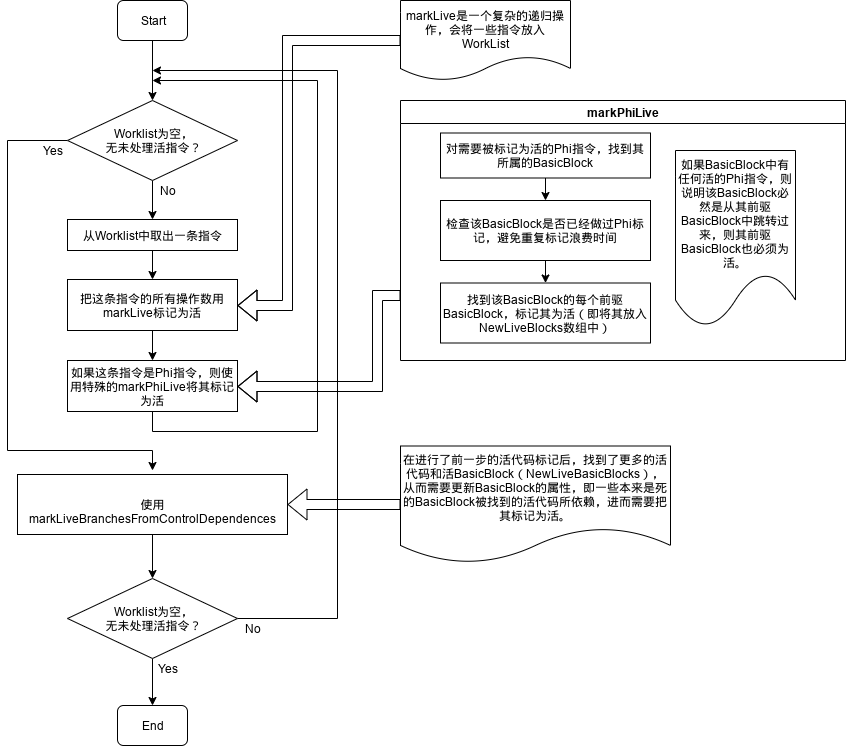
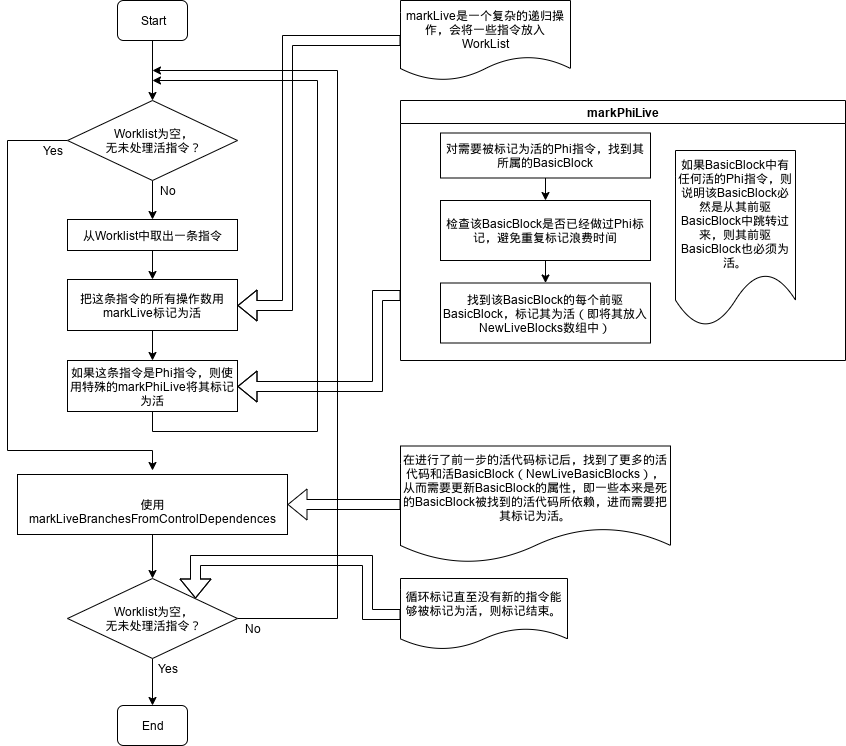
Added markLive ananlyse

Changed region(s): [[0.461, 0.7708, 0.6761, 0.8324], [0.3995, 0.7399, 0.4303, 0.7708], [0.2151, 0.7708, 0.2459, 0.8016]]

diff --git a/lab3-2/working/test1.c b/lab3-2/working/test1.c
@@ -1,0 +1,26 @@
+/* code optim test 1 */
+void xx(void) {
+	int x;
+	x = 1;
+	return;
+}
+int main(void) {
+	int a;
+	int b;
+	int c;
+	int d;
+	b = 2;
+	b = 1;
+	a = b + 1;
+	c = b + 3;
+	a = c + b;
+	if(a) {
+		return a;
+	}
+	else {
+		return b;
+	}
+	return 0;
+	return 1;
+	return 0;
+}

diff --git a/lab3-2/working/test2.c b/lab3-2/working/test2.c
@@ -1,0 +1,11 @@
+int main(void) {
+	int a;
+	int b;
+	int c;
+	a = 1 + (2 * 500 + 600);
+	b = 1 + (2 * 500 + 600);
+	1 + 2;
+	1 + 2;
+	1 + 2;
+	return 0;
+}

diff --git a/lab3-2/report/report.md b/lab3-2/report/report.md
@@ -130,15 +130,17 @@ removeDeadInstructions，进行代码分析后的删除工作
 
 **重要函数细节**
 
+整个流程中一个重要的函数是markLive，其有两个，分别用于标记Instruction和BasicBlock。流程如下：
 
+![](./src/adce_markLive.png)
 
 ## 实验总结
 
-本次实验我们体会了阅读大项目源代码，遇到了一些困难，也有很大的收获。
+本次实验我们体会了阅读大项目源代码，遇到了一些困难，也获得了很大的收获和经验。
 
 我们发现源码中使用了各种各样的C++特性和方便的自定义的数据结构，整体代码风格非常好，我们感到自己的C++水平有待提升。
 
-虽然LLVM的代码注释很丰富，但我们发现仅仅阅读了注释后，仍然不能很好的把握代码的含义。而很多库函数在文档上也没能找到资料，找到函数实现处的代码又难以看懂，一些细节函数（比如depth_first_ext等）在stackoverflow上也没有任何人提问，只能通过函数名猜测功能。在反复阅读代码后，我们较为深入的理解了DCE的流程，大致理解了ADCE的流程。对于ADCE，我们只知道代码做了什么，而还没有完全明白为什么这么做能够保证正确性：为什么初始条件设置的足够，不多也不少？为什么能保证markLive复杂的递归调用能够不出偏差的完成任务？这些问题还需要有机会继续研究。
+虽然LLVM的代码注释很丰富，但我们发现仅仅阅读了注释后，仍然不能很好的把握代码的含义。而很多库函数在文档上也没能找到资料，找到函数实现处的代码又难以看懂，一些细节函数（比如depth_first_ext等）在stackoverflow上也没有任何人提问，只能通过函数名猜测功能。在反复阅读代码后，我们较为深入的理解了DCE的流程，大致理解了ADCE的流程。对于ADCE，我们只知道代码做了什么，而还没有完全明白为什么这么做能够保证正确性：为什么初始条件设置的足够，不多也不少？为什么能保证markLive复杂的递归调用能够不出偏差的完成任务？为什么有时候要加一些如是否是UnconditionalBranch这类判断条件，这些条件在哪里体现处必要性？这些问题还需要有机会继续研究。
 
 本次实验中我们也尝试了一些工具的使用。我们最开始的想法是在一个云IDE上合作阅读代码，个人随看随添加注释，以便于理解。但后来发现我们自己搭建的云IDE效果并不是很理想，并且相互讨论研究代码的效果远远好过看别人写的注释，于是就没有继续使用。在流程图绘制上，开始尝试了使用markdown的一些特性，比如flow绘制流程图，但功能极其有限，并且无法直接在Gitlab的markdown中展示。于是选用了[draw.io](https://www.draw.io)进行流程图绘制，效果很好。
 
